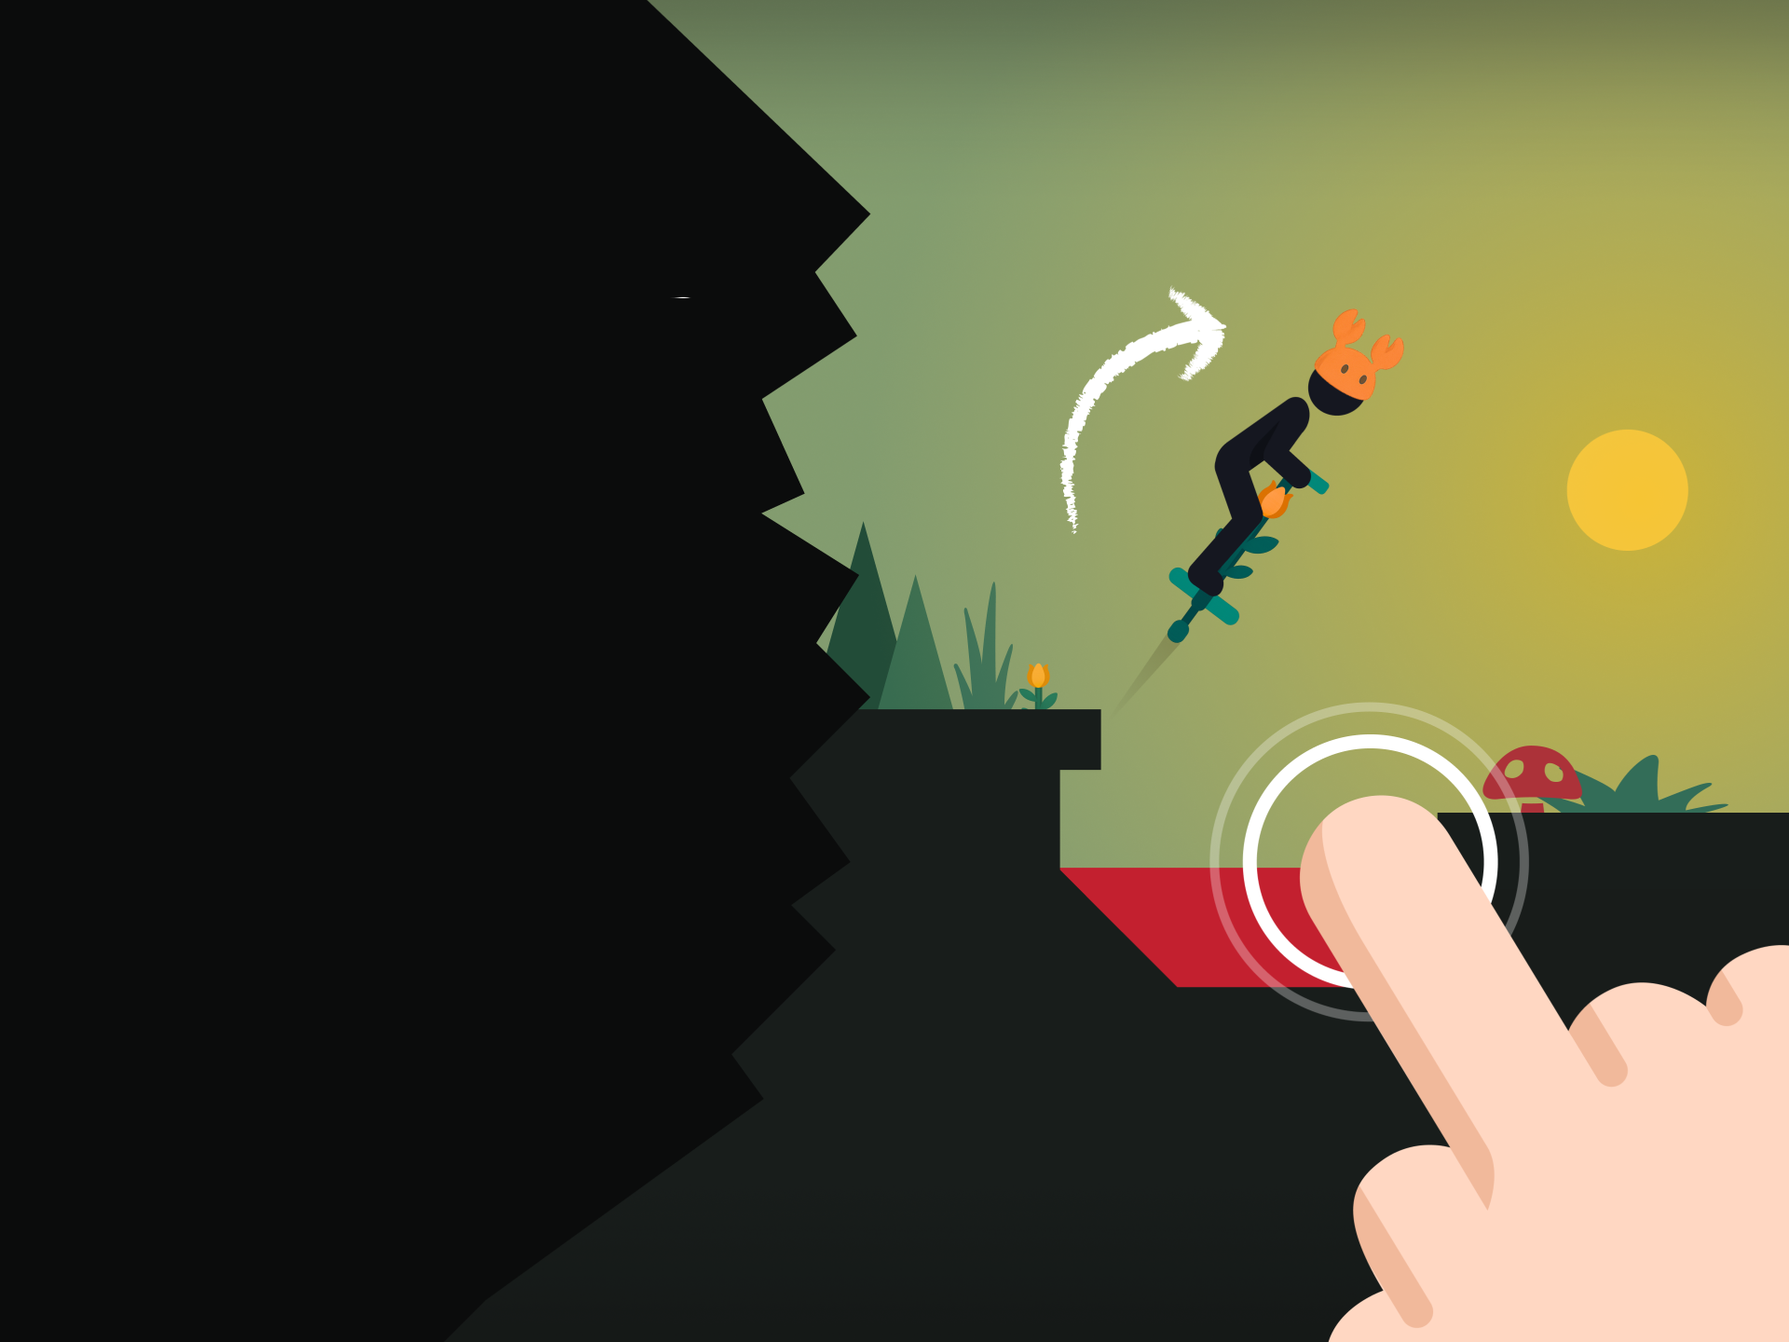
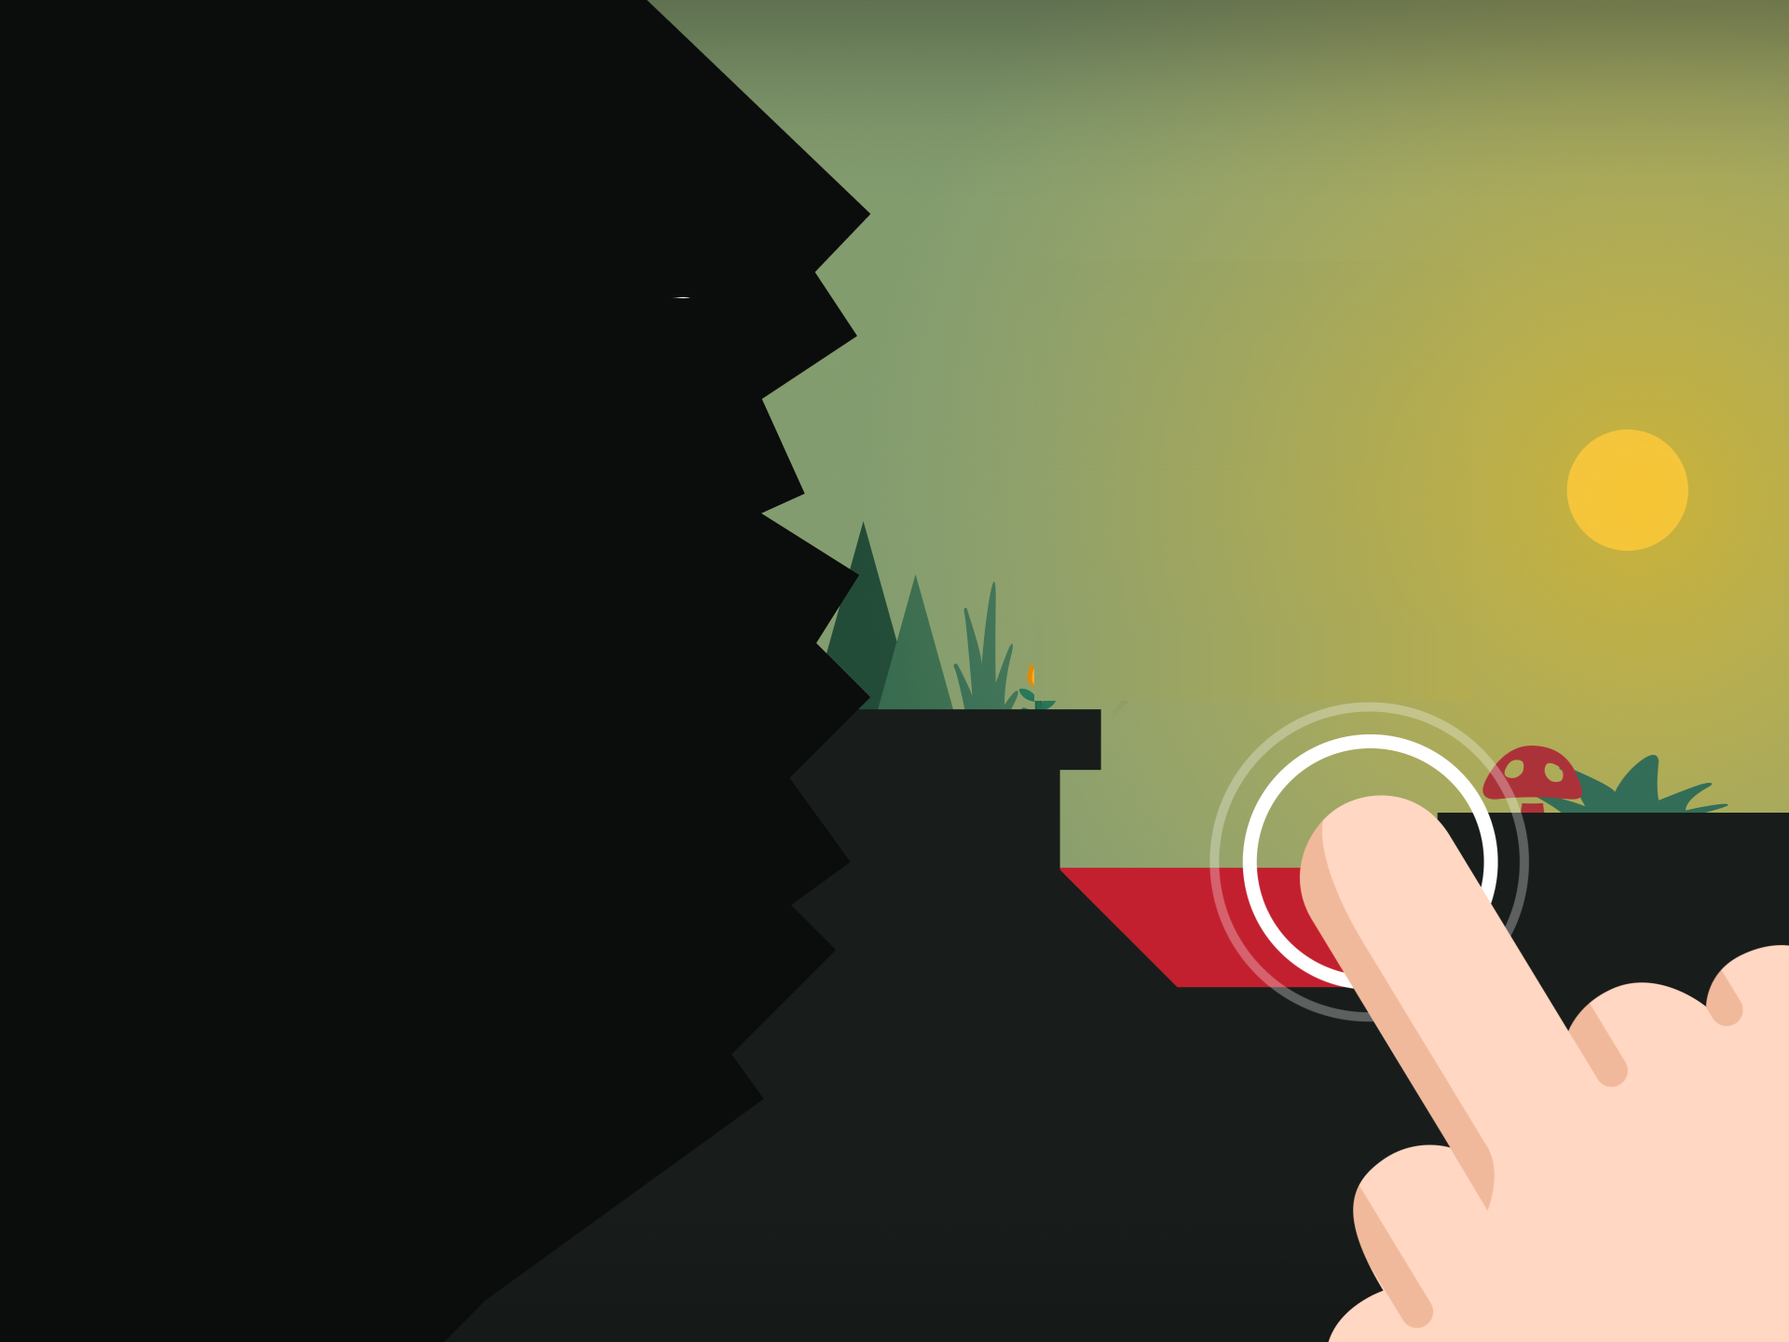
Rebuild Pogo Planet promo with layered, animated game elements
Separate Figma sprites (riders, text, hats, tool buttons, boss panels),
camera whip-ins, text slams with impact shake/flash, 60 fps delivery render.

Claude-Session: https://claude.ai/code/session_01RvUTQRLFqTPWzf27vUXUyM

Changed region(s): [[0.6562, 0.2188, 0.7812, 0.4688], [0.5938, 0.2188, 0.6875, 0.375], [0.5625, 0.5, 0.5938, 0.5312]]

diff --git a/projects/pogo-planet-promo/compositions/index.html b/projects/pogo-planet-promo/compositions/index.html
@@ -9,86 +9,139 @@
       html, body { width: 1920px; height: 1080px; overflow: hidden; background: #0b0c0c; }
       #root { position: relative; width: 1920px; height: 1080px; overflow: hidden; background: #0b0c0c; }
       .scene { position: absolute; inset: 0; overflow: hidden; background: #0b0c0c; }
-      .cam { position: absolute; inset: 0; }
-      .bg { position: absolute; left: 0; top: -180px; width: 1920px; height: 1440px; }
-      .txt { position: absolute; }
+      .shake, .cam { position: absolute; inset: 0; }
+      .stage { position: absolute; left: 0; top: -180px; width: 1920px; height: 1440px; }
+      .bg { position: absolute; left: 0; top: 0; width: 1920px; height: 1440px; }
+      .sp, .txt { position: absolute; }
+      .flash { position: absolute; inset: 0; background: #fff; opacity: 0; pointer-events: none; }
+      .ring { position: absolute; width: 300px; height: 300px; margin: -150px 0 0 -150px; border-radius: 50%; border: 16px solid #fff; opacity: 0; }
+      .ring.teal { border-color: #0bb3b6; }
+      .ring.red { border-color: #e0283a; }
+      #hl { position: absolute; width: 780px; height: 48px; border-radius: 12px; border: 6px solid #fff; box-shadow: 0 0 40px 10px rgba(255,214,0,.8); opacity: 0; }
       .menu { position: absolute; inset: 0; width: 1920px; height: 1080px; object-fit: cover; }
-      .ring { position: absolute; width: 300px; height: 300px; margin: -150px 0 0 -150px; border-radius: 50%; border: 18px solid #fff; opacity: 0; }
-      .ring.teal { border-color: #0b9396; }
-      .ring.red { border-color: #c3202f; }
-      #logo { position: absolute; left: 610px; top: 70px; width: 700px; }
-      #logo2 { position: absolute; left: 510px; top: 230px; width: 900px; }
-      #play { position: absolute; left: 835px; top: 680px; width: 250px; }
+      .rays { position: absolute; left: 160px; top: -560px; width: 1600px; height: 1600px; fill: #fff; opacity: 0; }
+      #logo0 { position: absolute; left: 560px; top: 60px; width: 800px; }
+      #logo7 { position: absolute; left: 460px; top: 150px; width: 1000px; }
+      #play { position: absolute; left: 810px; top: 690px; width: 300px; }
+      #vig { position: absolute; inset: 0; background: radial-gradient(ellipse at center, rgba(0,0,0,0) 55%, rgba(0,0,0,.45) 100%); z-index: 40; pointer-events: none; }
       #wipe { position: absolute; left: 0; top: 0; width: 2400px; height: 1080px; z-index: 50; }
     </style>
   </head>
   <body>
     <div id="root" data-composition-id="main" data-start="0" data-duration="20" data-width="1920" data-height="1080">
       <div id="s0" class="clip scene" data-start="0" data-duration="2.5" data-track-index="1">
-        <img class="menu" id="m0" src="img/menu_nologo.png" />
-        <img id="logo" src="img/logo.png" />
+        <div class="shake" id="sh0"><img class="menu" id="m0" src="img/menu_nologo.png" /><svg class="rays" id="ray0" viewBox="-1000 -1000 2000 2000"><polygon points="0,0 1398,-73 1398,73" /><polygon points="0,0 1339,409 1289,547" /><polygon points="0,0 1118,843 1024,955" /><polygon points="0,0 762,1174 636,1247" /><polygon points="0,0 315,1364 171,1390" /><polygon points="0,0 -171,1390 -315,1364" /><polygon points="0,0 -636,1247 -762,1174" /><polygon points="0,0 -1024,955 -1118,843" /><polygon points="0,0 -1289,547 -1339,409" /><polygon points="0,0 -1398,73 -1398,-73" /><polygon points="0,0 -1339,-409 -1289,-547" /><polygon points="0,0 -1118,-843 -1024,-955" /><polygon points="0,0 -762,-1174 -636,-1247" /><polygon points="0,0 -315,-1364 -171,-1390" /><polygon points="0,0 171,-1390 315,-1364" /><polygon points="0,0 636,-1247 762,-1174" /><polygon points="0,0 1024,-955 1118,-843" /><polygon points="0,0 1289,-547 1339,-409" /></svg><img id="logo0" src="img/logo.png" /></div>
+        <div class="flash" id="fl0"></div>
       </div>
       <div id="s1" class="clip scene" data-start="2.5" data-duration="2.5" data-track-index="1">
-        <div class="cam" id="cam1"><img class="bg" id="bg1" src="img/s1_bg.png" /><div class="ring" id="r1a" style="left:1470px;top:740px"></div></div>
-        <img class="txt" id="t1" src="img/s1_txt.png" style="left:60px;top:140px;width:740px;height:745px" />
+        <div class="shake" id="sh1"><div class="cam" id="cam1"><div class="stage"><img class="bg" src="img/s1_bg.png" /><div class="ring " id="r1" style="left:1470px;top:920px"></div><img class="sp" id="jump1" src="img/sp_jumper.png" style="left:1172px;top:296px" /></div></div>
+        <div class="stage"><img class="txt" id="t1" src="img/t1.png" style="left:60px;top:320px" /></div></div>
+        <div class="flash" id="fl1"></div>
       </div>
       <div id="s2" class="clip scene" data-start="5.0" data-duration="2.5" data-track-index="1">
-        <div class="cam" id="cam2"><img class="bg" id="bg2" src="img/s2_bg.png" /><div class="ring teal" id="r2a" style="left:1040px;top:820px"></div><div class="ring red" id="r2b" style="left:1665px;top:810px"></div></div>
-        <img class="txt" id="t2" src="img/s2_txt.png" style="left:55px;top:150px;width:760px;height:640px" />
+        <div class="shake" id="sh2"><div class="cam" id="cam2"><div class="stage"><img class="bg" src="img/s2_bg.png" /><div class="ring teal" id="r2a" style="left:1040px;top:1000px"></div><div class="ring red" id="r2b" style="left:1665px;top:990px"></div><img class="sp" id="fox" src="img/sp_fox.png" style="left:1044px;top:232px" /><img class="sp" id="horse" src="img/sp_horse.png" style="left:1540px;top:384px" /></div></div>
+        <div class="stage"><img class="txt" id="t2" src="img/t2.png" style="left:60px;top:336px" /></div></div>
+        <div class="flash" id="fl2"></div>
       </div>
       <div id="s3" class="clip scene" data-start="7.5" data-duration="2.5" data-track-index="1">
-        <div class="cam" id="cam3"><img class="bg" id="bg3" src="img/s3_bg.png" /></div>
-        <img class="txt" id="t3" src="img/s3_txt.png" style="left:85px;top:185px;width:900px;height:670px" />
+        <div class="shake" id="sh3"><div class="cam" id="cam3"><div class="stage"><img class="bg" src="img/s3_bg.png" /><img class="sp btn" src="img/btn0.png" style="left:1152px;top:322px" /><img class="sp btn" src="img/btn1.png" style="left:1152px;top:437px" /><img class="sp btn" src="img/btn2.png" style="left:1152px;top:553px" /><img class="sp btn" src="img/btn3.png" style="left:1152px;top:668px" /><img class="sp btn" src="img/btn4.png" style="left:1152px;top:784px" /><img class="sp btn" src="img/btn5.png" style="left:1152px;top:898px" /></div></div>
+        <div class="stage"><img class="txt" id="t3" src="img/t3.png" style="left:88px;top:372px" /></div></div>
+        <div class="flash" id="fl3"></div>
       </div>
       <div id="s4" class="clip scene" data-start="10.0" data-duration="2.5" data-track-index="1">
-        <div class="cam" id="cam4"><img class="bg" id="bg4" src="img/s4_bg.png" /><div id="hl4" style="position:absolute;left:800px;top:823px;width:780px;height:46px;border-radius:10px;background:#fff;opacity:0"></div></div>
-        <img class="txt" id="t4" src="img/s4_txt.png" style="left:80px;top:140px;width:795px;height:630px" />
+        <div class="shake" id="sh4"><div class="cam" id="cam4"><div class="stage"><img class="bg" src="img/s4_bg.png" /><img class="sp" id="jump4" src="img/sp_jumper.png" style="left:1148px;top:300px" /><div id="hl" style="left:797px;top:1000px"></div></div></div>
+        <div class="stage"><img class="txt" id="t4" src="img/t4.png" style="left:80px;top:328px" /></div></div>
+        <div class="flash" id="fl4"></div>
       </div>
       <div id="s5" class="clip scene" data-start="12.5" data-duration="2.5" data-track-index="1">
-        <div class="cam" id="cam5"><img class="bg" id="bg5" src="img/s5_bg.png" /></div>
-        <img class="txt" id="t5" src="img/s5_txt.png" style="left:70px;top:110px;width:795px;height:725px" />
+        <div class="shake" id="sh5"><div class="cam" id="cam5"><div class="stage"><img class="bg" src="img/s5_bg.png" /><img class="sp hat" src="img/hat0.png" style="left:1465px;top:400px" /><img class="sp hat" src="img/hat1.png" style="left:1600px;top:400px" /><img class="sp hat" src="img/hat2.png" style="left:1732px;top:400px" /><img class="sp hat" src="img/hat3.png" style="left:1465px;top:535px" /><img class="sp hat" src="img/hat4.png" style="left:1600px;top:535px" /><img class="sp hat" src="img/hat5.png" style="left:1732px;top:535px" /><img class="sp hat" src="img/hat6.png" style="left:1465px;top:668px" /><img class="sp hat" src="img/hat7.png" style="left:1600px;top:668px" /><img class="sp hat" src="img/hat8.png" style="left:1732px;top:668px" /><img class="sp hat" src="img/hat9.png" style="left:1465px;top:800px" /><img class="sp hat" src="img/hat10.png" style="left:1600px;top:800px" /><img class="sp hat" src="img/hat11.png" style="left:1732px;top:800px" /><img class="sp hat" src="img/hat12.png" style="left:1465px;top:930px" /><img class="sp hat" src="img/hat13.png" style="left:1600px;top:930px" /><img class="sp hat" src="img/hat14.png" style="left:1732px;top:930px" /></div></div>
+        <div class="stage"><img class="txt" id="t5" src="img/t5.png" style="left:76px;top:300px" /></div></div>
+        <div class="flash" id="fl5"></div>
       </div>
       <div id="s6" class="clip scene" data-start="15.0" data-duration="2.5" data-track-index="1">
-        <div class="cam" id="cam6"><img class="bg" id="bg6" src="img/s6_bg.png" /></div>
-        <img class="txt" id="t6" src="img/s6_txt.png" style="left:55px;top:110px;width:750px;height:670px" />
+        <div class="shake" id="sh6"><div class="cam" id="cam6"><div class="stage"><img class="bg stripe" id="st0" src="img/s6_bg.png" style="clip-path: polygon(0px 0px, 1250px 0, 1106px 1440px, 0 1440px)" /><img class="bg stripe" id="st1" src="img/s6_bg.png" style="clip-path: polygon(1250px 0, 1630px 0, 1457px 1440px, 1106px 1440px)" /><img class="bg stripe" id="st2" src="img/s6_bg.png" style="clip-path: polygon(1630px 0, 1920px 0, 1920px 1440px, 1457px 1440px)" /></div></div>
+        <div class="stage"><img class="txt" id="t6" src="img/t6.png" style="left:56px;top:296px" /></div></div>
+        <div class="flash" id="fl6"></div>
       </div>
       <div id="s7" class="clip scene" data-start="17.5" data-duration="2.5" data-track-index="1">
-        <img class="menu" id="m7" src="img/menu_nologo.png" style="filter: brightness(0.85) blur(8px)" />
-        <img id="logo2" src="img/logo.png" />
-        <img id="play" src="img/play.png" />
+        <div class="shake" id="sh7"><img class="menu" id="m7" src="img/menu_nologo.png" style="filter: brightness(0.8) blur(10px)" /><svg class="rays" id="ray7" viewBox="-1000 -1000 2000 2000"><polygon points="0,0 1398,-73 1398,73" /><polygon points="0,0 1339,409 1289,547" /><polygon points="0,0 1118,843 1024,955" /><polygon points="0,0 762,1174 636,1247" /><polygon points="0,0 315,1364 171,1390" /><polygon points="0,0 -171,1390 -315,1364" /><polygon points="0,0 -636,1247 -762,1174" /><polygon points="0,0 -1024,955 -1118,843" /><polygon points="0,0 -1289,547 -1339,409" /><polygon points="0,0 -1398,73 -1398,-73" /><polygon points="0,0 -1339,-409 -1289,-547" /><polygon points="0,0 -1118,-843 -1024,-955" /><polygon points="0,0 -762,-1174 -636,-1247" /><polygon points="0,0 -315,-1364 -171,-1390" /><polygon points="0,0 171,-1390 315,-1364" /><polygon points="0,0 636,-1247 762,-1174" /><polygon points="0,0 1024,-955 1118,-843" /><polygon points="0,0 1289,-547 1339,-409" /></svg><img id="logo7" src="img/logo.png" /><img id="play" src="img/play.png" /></div>
+        <div class="flash" id="fl7"></div>
       </div>
+      <div id="vig" class="clip" data-start="0" data-duration="20" data-track-index="3"></div>
       <svg id="wipe" class="clip" data-start="0" data-duration="20" data-track-index="2" viewBox="0 0 2400 1080"><polygon points="0,0 110,140 30,260 140,420 60,560 170,700 40,860 130,1080 2280,1080 2370,900 2250,760 2350,600 2240,430 2360,280 2270,120 2380,0" fill="#0b0c0c" /></svg>
     </div>
     <script>
       window.__timelines = window.__timelines || {};
       const tl = gsap.timeline({ paused: true });
+      const seen = {};
+      const ft = (sel, from, to, t) => { to.immediateRender = !seen[sel]; seen[sel] = true; tl.fromTo(sel, from, to, t); };
+      const shake = (sel, t, a) => tl.to(sel, { x: a, y: -a * 0.6, duration: 0.04, ease: "sine.inOut", yoyo: true, repeat: 5 }, t);
+      const flash = (sel, t, p) => ft(sel, { opacity: p }, { opacity: 0, duration: 0.35, ease: "expo.out" }, t);
+      const ring = (sel, t) => ft(sel, { scale: 0.3, opacity: 1 }, { scale: 1.35, opacity: 0, duration: 0.55, ease: "expo.out" }, t);
+      const slam = (sel, t) => ft(sel, { scale: 2.4, opacity: 0, rotation: -8 }, { scale: 1, opacity: 1, rotation: 0, duration: 0.42, ease: "power4.in" }, t);
+      const camIn = (i, T) => {
+        ft("#cam" + i, { scale: 1.35, filter: "blur(16px)" }, { scale: 1, filter: "blur(0px)", duration: 0.7, ease: "expo.out" }, T);
+        tl.to("#cam" + i, { scale: 1.06, duration: 1.8, ease: "sine.inOut" }, T + 0.7);
+      };
       // Intro
-      tl.fromTo("#m0", { scale: 1.18 }, { scale: 1.03, duration: 1.4, ease: "power3.out" }, 0);
-      tl.to("#m0", { scale: 1.0, duration: 1.1, ease: "sine.inOut" }, 1.4);
-      tl.fromTo("#logo", { scale: 0.3, opacity: 0, rotation: -8 }, { scale: 1, opacity: 1, rotation: 0, duration: 0.7, ease: "back.out(1.6)" }, 0.3);
-      tl.to("#logo", { y: -12, duration: 1.2, ease: "sine.inOut" }, 1.0);
-      // Feature scenes
+      ft("#m0", { scale: 1.4, filter: "blur(18px)" }, { scale: 1, filter: "blur(0px)", duration: 1.0, ease: "expo.out" }, 0);
+      ft("#logo0", { y: -700, scale: 1.6 }, { y: 0, scale: 1, duration: 0.35, ease: "power4.in" }, 0.35);
+      tl.to("#logo0", { scaleY: 0.86, scaleX: 1.08, duration: 0.1, ease: "power2.out", yoyo: true, repeat: 1 }, 0.7);
+      tl.to("#logo0", { y: -14, duration: 1.2, ease: "sine.inOut" }, 0.95);
+      shake("#sh0", 0.7, 14); flash("#fl0", 0.7, 0.7);
+      ft("#ray0", { opacity: 0, rotation: 0 }, { opacity: 0.16, rotation: 35, duration: 1.8, ease: "sine.inOut" }, 0.7);
+      // Feature scenes: camera whip-in, text slam with impact
       for (let i = 1; i <= 6; i++) {
         const T = 2.5 * i;
-        tl.fromTo("#bg" + i, { scale: 1.12, x: 80 }, { scale: 1.0, x: 0, duration: 0.8, ease: "power3.out" }, T);
-        tl.to("#bg" + i, { scale: 1.04, duration: 1.7, ease: "sine.inOut" }, T + 0.8);
-        tl.fromTo("#t" + i, { clipPath: "inset(0% 100% 0% 0%)", x: -60 }, { clipPath: "inset(0% 0% 0% 0%)", x: 0, duration: 0.6, ease: "expo.out" }, T + 0.15);
-        tl.fromTo("#t" + i, { scale: 1 }, { scale: 1.04, duration: 0.25, ease: "back.out(1.6)", yoyo: true, repeat: 1 }, T + 0.8);
+        camIn(i, T);
+        const ts = i === 6 ? T + 1.0 : T + 0.3;
+        slam("#t" + i, ts);
+        shake("#sh" + i, ts + 0.42, 12);
+        flash("#fl" + i, ts + 0.42, 0.45);
       }
-      // Accents
-      [3.1, 3.9].forEach(t => tl.fromTo("#r1a", { scale: 0.4, opacity: 1 }, { scale: 1.3, opacity: 0, duration: 0.6, ease: "expo.out", immediateRender: false }, t));
-      [5.5, 5.9, 6.3, 6.7].forEach((t, k) => tl.fromTo(k % 2 ? "#r2b" : "#r2a", { scale: 0.4, opacity: 1 }, { scale: 1.3, opacity: 0, duration: 0.55, ease: "expo.out", immediateRender: false }, t));
-      tl.fromTo("#hl4", { opacity: 0 }, { opacity: 0.55, duration: 0.15, ease: "expo.out", yoyo: true, repeat: 1 }, 11.0);
-      tl.fromTo("#cam6", { x: 0, y: 0 }, { x: 14, y: -8, duration: 0.06, ease: "sine.inOut", yoyo: true, repeat: 7 }, 15.7);
+      // 1 Gameplay: tap, jump, tap, jump
+      let T = 2.5;
+      ring("#r1", T + 0.2); ring("#r1", T + 1.25);
+      ft("#jump1", { x: -520, y: 420, rotation: -30 }, { x: 0, y: 0, rotation: 0, duration: 0.55, ease: "power3.out" }, T + 0.22);
+      tl.to("#jump1", { x: 120, y: 260, rotation: 18, duration: 0.45, ease: "power2.in" }, T + 0.8);
+      tl.to("#jump1", { x: 300, y: -60, rotation: -10, duration: 0.5, ease: "power2.out" }, T + 1.27);
+      tl.to("#jump1", { x: 380, y: 60, rotation: 8, duration: 0.7, ease: "sine.inOut" }, T + 1.77);
+      // 2 Multiplayer: two players, alternating taps
+      T = 5;
+      ft("#fox", { y: 600 }, { y: 0, duration: 0.5, ease: "power3.out" }, T + 0.2);
+      ft("#horse", { y: 600 }, { y: 0, duration: 0.5, ease: "power3.out" }, T + 0.32);
+      tl.to("#fox", { y: -70, rotation: -6, duration: 0.32, ease: "power2.out", yoyo: true, repeat: 3 }, T + 0.8);
+      tl.to("#horse", { y: -120, rotation: 6, duration: 0.32, ease: "power2.out", yoyo: true, repeat: 3 }, T + 0.96);
+      ring("#r2a", T + 0.8); ring("#r2a", T + 1.44); ring("#r2b", T + 0.96); ring("#r2b", T + 1.6);
+      // 3 Map editor: tool buttons pop in
+      ft(".btn", { scale: 0, rotation: -25 }, { scale: 1, rotation: 0, duration: 0.45, ease: "back.out(2.2)", stagger: 0.07 }, 7.5 + 0.55);
+      // 4 Leaderboard: jumper hops, highlight climbs 17 -> 14
+      T = 10;
+      tl.to("#jump4", { y: -90, rotation: -6, duration: 0.35, ease: "power2.out", yoyo: true, repeat: 5 }, T + 0.3);
+      ft("#hl", { opacity: 0 }, { opacity: 1, duration: 0.2, ease: "power2.out" }, T + 0.75);
+      tl.to("#hl", { y: -144, duration: 0.7, ease: "power3.inOut" }, T + 1.0);
+      tl.to("#hl", { scale: 1.06, duration: 0.15, ease: "back.out(2)", yoyo: true, repeat: 1 }, T + 1.7);
+      // 5 Cosmetics: hats pop in
+      ft(".hat", { scale: 0, rotation: 40 }, { scale: 1, rotation: 0, duration: 0.4, ease: "back.out(2.5)", stagger: 0.05 }, 12.5 + 0.5);
+      // 6 Bosses: three boss panels slam down
+      T = 15;
+      [0, 1, 2].forEach(k => {
+        const t = T + 0.05 + k * 0.33;
+        ft("#st" + k, { y: -1500 }, { y: 0, duration: 0.22, ease: "expo.in" }, t);
+        shake("#sh6", t + 0.22, 16); flash("#fl6", t + 0.22, 0.35);
+      });
       // Outro
-      tl.fromTo("#logo2", { scale: 0.4, opacity: 0 }, { scale: 1, opacity: 1, duration: 0.7, ease: "back.out(1.6)" }, 17.7);
-      tl.fromTo("#play", { scale: 0, opacity: 0 }, { scale: 1, opacity: 1, duration: 0.5, ease: "back.out(1.6)" }, 18.1);
-      tl.to("#play", { scale: 1.08, duration: 0.35, ease: "sine.inOut", yoyo: true, repeat: 3 }, 18.6);
-      tl.fromTo("#m7", { scale: 1.1 }, { scale: 1.0, duration: 2.5, ease: "power2.out" }, 17.5);
+      ft("#m7", { scale: 1.2 }, { scale: 1, duration: 2.5, ease: "power2.out" }, 17.5);
+      ft("#logo7", { y: -800, scale: 1.6 }, { y: 0, scale: 1, duration: 0.35, ease: "power4.in" }, 17.6);
+      tl.to("#logo7", { scaleY: 0.86, scaleX: 1.08, duration: 0.1, ease: "power2.out", yoyo: true, repeat: 1 }, 17.95);
+      shake("#sh7", 17.95, 14); flash("#fl7", 17.95, 0.7);
+      ft("#ray7", { opacity: 0, rotation: 0 }, { opacity: 0.18, rotation: 40, duration: 2, ease: "sine.inOut" }, 17.95);
+      ft("#play", { scale: 0, opacity: 0 }, { scale: 1, opacity: 1, duration: 0.45, ease: "back.out(2.5)" }, 18.35);
+      tl.to("#play", { scale: 1.1, duration: 0.3, ease: "sine.inOut", yoyo: true, repeat: 3 }, 18.85);
       // Jagged wipes at every cut
-      [2.5, 5, 7.5, 10, 12.5, 15, 17.5].forEach(T => {
-        tl.fromTo("#wipe", { x: 1920 }, { x: -240, duration: 0.3, ease: "power3.in", immediateRender: T === 2.5 }, T - 0.3);
-        tl.to("#wipe", { x: -2500, duration: 0.45, ease: "expo.out" }, T);
+      [2.5, 5, 7.5, 10, 12.5, 15, 17.5].forEach(c => {
+        ft("#wipe", { x: 1920 }, { x: -240, duration: 0.25, ease: "power3.in" }, c - 0.25);
+        tl.to("#wipe", { x: -2500, duration: 0.4, ease: "expo.out" }, c);
       });
       window.__timelines["main"] = tl;
       tl.seek(0);
